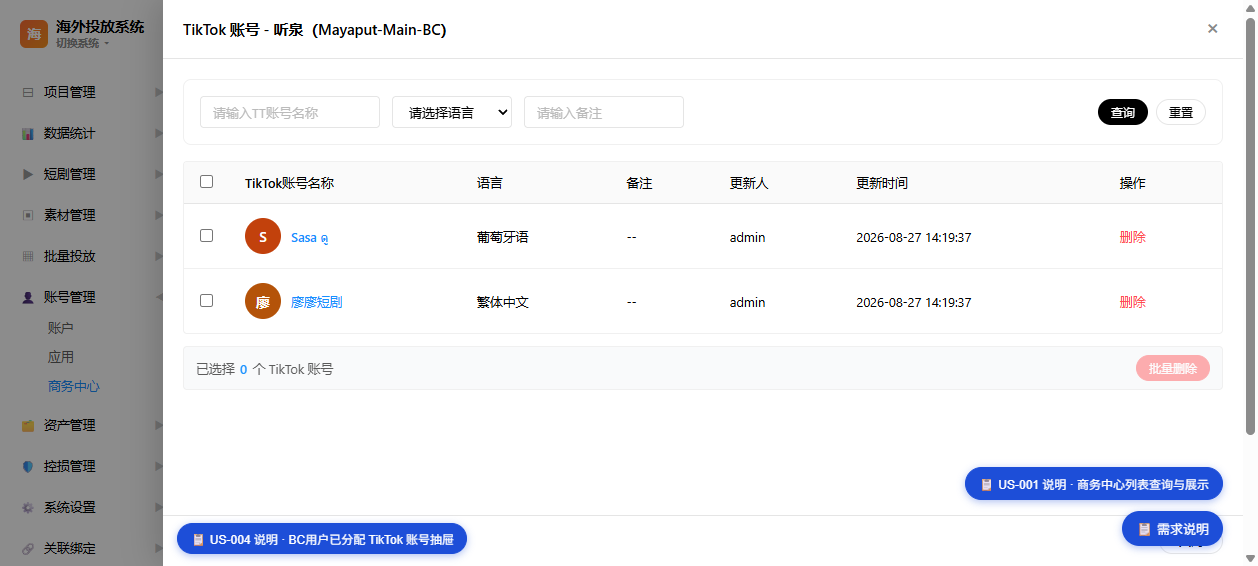
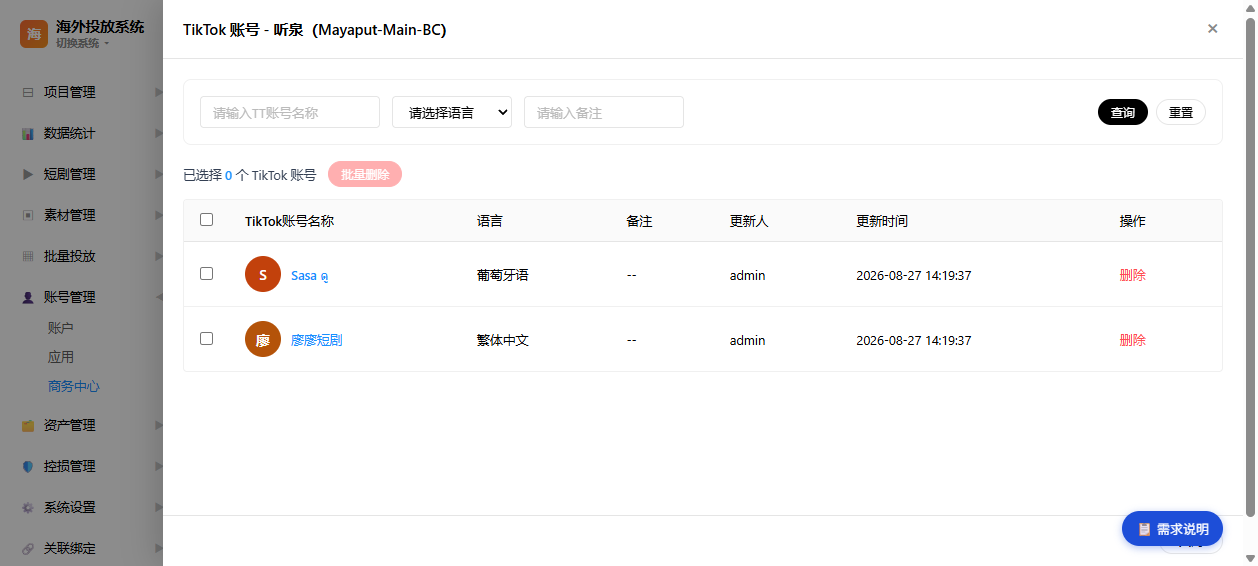
feat(overseas-bc): 批量删除工具条上移 + TikTok账号表「所属商务中心」仅显示当前所选BC
1、BC用户已分配 TikTok 账号抽屉：批量操作工具条移到表格上方
- HTML：.drawer-batch-toolbar 由表格下方移到筛选栏与表格之间，结构改为 .bc-user-toolbar > .bc-user-selected-wrap（已选择 X 个 + 批量删除按钮并排靠左），与 BC用户页签「已选择 X 个BC用户 + 分配TikTok」工具条视觉/交互一致
- CSS：删除原灰色卡片式样式（flex/space-between/背景/边框/内边距），仅保留 margin-bottom:12px；计数高亮复用 .bc-user-selected-info span
- 逻辑零改动：updateUserTtSelected / toggleUserTtAll / askBatchRemoveUserTtAuth / callUnassignUserTtBatch 全部不变

2、TikTok账号页签「所属商务中心」列只展示当前所选 BC
- collectBcTtRows 移除 otherBcs 聚合与 bcIds/bcNames/bcLabel 字段，仅保留 bcId + bcName（= 当前所选 BC 名称）
- renderBcTtList 移除多 BC 分支，统一渲染 <td>{bcName}</td>
- 删除随之失效的 CSS：.bc-bc-cell-shared / .bc-bc-tags / .bc-bc-tag / .bc-bc-cell-shared .bc-bc-tag
- 样例数据中 Bobo Flicks 同时挂在 1001/1002 保留（贴近真实场景），注释同步更新

3、PRD 同步
- US-004 / US-009：工具条位置由「表格下方」改为「表格上方」，按钮与计数并排靠左
- US-006：fields/source/flow/ac 移除「多 BC 标签并排 + 浅黄底高亮 + 悬浮查看全部 BC」描述，改为「取值恒为当前所选 BC 名称，不展开该账号在其他 BC 下的归属」

4、PRD 截图刷新
- us-004-user-tt.png（工具条已上移，含禁用态）、us-006-tt-tab.png（所属商务中心仅单个 BC 名）、us-009-batch-remove.png（上移后的工具条 + 精简确认弹框）
- 9 个 shot 引用全部 200

diff --git a/pages/overseas-bc.html b/pages/overseas-bc.html
@@ -367,6 +367,13 @@
                     </div>
                   </div>
                 </div>
+                <!-- 批量操作工具条：置于表格上方，与 BC用户页签「已选择 X 个BC用户 + 分配TikTok」保持一致 -->
+                <div class="bc-user-toolbar drawer-batch-toolbar">
+                  <div class="bc-user-selected-wrap">
+                    <span class="bc-user-selected-info">已选择 <span id="user-tt-selected-count">0</span> 个 TikTok 账号</span>
+                    <button type="button" class="btn btn-primary btn-sm" id="user-tt-batch-remove-btn" disabled style="background:var(--color-error, #d92d20);border-color:var(--color-error, #d92d20);" onclick="askBatchRemoveUserTtAuth()">批量删除</button>
+                  </div>
+                </div>
                 <div class="table-card" style="border-radius:4px;">
                   <div class="table-wrapper">
                     <table class="data-table">
@@ -384,10 +391,6 @@
                       <tbody id="user-tt-tbody"></tbody>
                     </table>
                   </div>
-                </div>
-                <div class="drawer-batch-toolbar">
-                  <span>已选择 <span id="user-tt-selected-count">0</span> 个 TikTok 账号</span>
-                  <button type="button" class="btn btn-primary btn-sm" id="user-tt-batch-remove-btn" disabled style="background:var(--color-error, #d92d20);border-color:var(--color-error, #d92d20);" onclick="askBatchRemoveUserTtAuth()">批量删除</button>
                 </div>
               </div>
               <div class="drawer-footer">
@@ -742,34 +745,6 @@
         margin-left: auto;
       }
 
-      /* TikTok 账号表 - 「所属商务中心」单元格：多 BC 共享时以独立标签展示 */
-      .bc-bc-cell-shared {
-        background: #fffbeb;
-      }
-      .bc-bc-tags {
-        display: inline-flex;
-        align-items: center;
-        gap: 6px;
-        flex-wrap: wrap;
-      }
-      .bc-bc-tag {
-        display: inline-flex;
-        align-items: center;
-        padding: 2px 8px;
-        border-radius: 10px;
-        font-size: 12px;
-        line-height: 18px;
-        white-space: nowrap;
-        background: #eef2ff;
-        color: #3730a3;
-        border: 1px solid #c7d2fe;
-      }
-      .bc-bc-cell-shared .bc-bc-tag {
-        background: #fef3c7;
-        color: #b45309;
-        border-color: #fde68a;
-      }
-
       /* 分配 TikTok 账号弹框需在BC用户列表抽屉之上显示（修正层级错乱） */
       #assign-tt-overlay { z-index: 1200; }
       #assign-tt-modal { z-index: 1201; }
@@ -837,23 +812,10 @@
         cursor: not-allowed;
       }
 
-      /* BC用户已分配 TikTok 账号抽屉内：批量操作工具条（已选数 + 批量删除按钮） */
+      /* BC用户已分配 TikTok 账号抽屉内：批量操作工具条（已选数 + 批量删除按钮）。
+         位于表格上方，布局与配色复用 .bc-user-toolbar / .bc-user-selected-wrap / .bc-user-selected-info */
       .drawer-batch-toolbar {
-        display: flex;
-        align-items: center;
-        justify-content: space-between;
-        margin-top: 12px;
-        padding: 8px 12px;
-        background: #f9fafb;
-        border: 1px solid var(--color-border-light, #eaecf0);
-        border-radius: 4px;
-        font-size: 13px;
-        color: var(--color-text-secondary, #667085);
-      }
-      .drawer-batch-toolbar #user-tt-selected-count {
-        color: var(--color-info, #1d4ed8);
-        font-weight: 600;
-        margin: 0 2px;
+        margin-bottom: 12px;
       }
       /* 未勾选任何账号时，批量删除按钮呈浅色禁用态，与可点击状态区分 */
       #user-tt-batch-remove-btn:disabled {
@@ -1538,7 +1500,7 @@
           { name: 'Sasa ดู', handle: 'sasa_dailyup', lang: '葡萄牙语', remark: '--', updater: 'admin', updateTime: '2026-08-27 14:19:37' },
           { name: '廖廖短剧', handle: 'liaoliaodrama_tw', lang: '繁体中文', remark: '--', updater: 'admin', updateTime: '2026-08-27 14:19:37' },
           { name: 'Titi Pendek', handle: 'titipendek_my', lang: '马来西亚语', remark: '--', updater: 'admin', updateTime: '2026-08-27 14:19:37' },
-          /* Bobo Flicks 同时挂在 BC 1001 / 1002，用于演示「同一 TikTok 账号属于多个商务中心」样式 */
+          /* Bobo Flicks 同时挂在 BC 1001 / 1002：同一账号可在不同 BC 下各自归属，页签内只展示当前所选 BC */
           { name: 'Bobo Flicks', handle: 'boboflicks_en', lang: '英语', remark: '多 BC 共享素材', updater: 'admin', updateTime: '2026-08-27 14:19:37' }
         ],
         '1002': [
@@ -1959,17 +1921,13 @@
         '</div>';
       }
 
-      /* 聚合所选商务中心下的 TikTok 账号（单选语义：仅当前所选 BC 的账号；
-         当账号同属多个 BC 时，Bobo Flicks 这类样例数据会展示多标签高亮，作为多 BC 共存说明） */
+      /* 聚合所选商务中心下的 TikTok 账号（单选语义：仅当前所选 BC 的账号）。
+         「所属商务中心」取值恒为当前所选 BC 名称，不再展开该账号同时命中的其他 BC */
       function collectBcTtRows() {
         var selected = getSelectedBcs();
         if (!selected.length) return [];
         var bc = selected[0];
-        var rows = (bcTtData[bc.id] || []).map(function (a) {
-          var otherBcs = bcListData
-            .filter(function (b) { return b.id !== bc.id; })
-            .filter(function (b) { return (bcTtData[b.id] || []).some(function (x) { return x.name === a.name; }); });
-          var allBcNames = [bc.name].concat(otherBcs.map(function (b) { return b.name; }));
+        return (bcTtData[bc.id] || []).map(function (a) {
           return {
             key: a.name || '',
             name: a.name,
@@ -1978,18 +1936,16 @@
             remark: a.remark,
             updater: a.updater,
             updateTime: a.updateTime,
-            bcIds: [bc.id].concat(otherBcs.map(function (b) { return b.id; })),
-            bcNames: allBcNames
+            bcId: bc.id,
+            bcName: bc.name
           };
         });
-        rows.forEach(function (r) { r.bcLabel = r.bcNames.join('、'); });
-        return rows;
       }
 
       function renderBcTtThead() {
         var tr = document.getElementById('bc-tt-thead-row');
         if (!tr) return;
-        /* 「所属商务中心」固定展示在「备注」后面；当账号同时属于多个 BC 时以独立标签并排展示 */
+        /* 「所属商务中心」固定展示在「备注」后面，取值恒为当前所选 BC 名称 */
         tr.innerHTML = '<th>TikTok账号名称</th>' +
           '<th style="width:100px;">语言</th>' +
           '<th>备注</th>' +
@@ -2030,18 +1986,11 @@
           return;
         }
         tbody.innerHTML = filtered.map(function (a) {
-          /* 多个商务中心时：单元格浅底 + 每个 BC 独立标签，直观体现「同一账号属于多个BC」 */
-          var multi = a.bcIds && a.bcIds.length > 1;
-          var bcCell = multi
-            ? '<td class="bc-bc-cell-shared"><span class="bc-bc-tags" title="' + a.bcLabel + '">' +
-                a.bcNames.map(function (n) { return '<span class="bc-bc-tag">' + n + '</span>'; }).join('') +
-              '</span></td>'
-            : '<td>' + a.bcLabel + '</td>';
           return '<tr>' +
             '<td>' + renderTtAccountCell(a.name, a.handle) + '</td>' +
             '<td>' + (a.lang || '') + '</td>' +
             '<td>' + (a.remark || '') + '</td>' +
-            bcCell +
+            '<td>' + (a.bcName || '') + '</td>' +
             '<td>' + (a.updater || '') + '</td>' +
             '<td>' + (a.updateTime || '') + '</td>' +
           '</tr>';
@@ -2511,7 +2460,7 @@
           shot: '../assets/prd/us-004-user-tt.png',
           desc: '作为投放运营，我想要查看某个BC用户已分配的 TikTok 账号明细，以便确认其资产权限。',
           filter: '筛选项与「资产管理 - TikTok账号」页面保持一致。TT账号名称（单行文本输入框，占位「请输入TT账号名称」）／语言（下拉选择，占位「请选择语言」，枚举与短剧管理页面的语言枚举一致）／备注（单行文本输入框，占位「请输入备注」）+「查询」/「重置」按钮；点击「查询」后按条件查询，点击「重置」清空全部条件并恢复全量列表。',
-          fields: '选择列（复选框，固定显示，表头支持全选/半选，勾选用于批量删除）／TikTok账号名称（头像 + 账号名称组合展示）／语言（文本，账号语言）／备注（文本，账号备注，可为空）／更新人（文本，最近操作人）／更新时间（文本，格式 yyyy-MM-dd HH:mm）／操作（按钮：删除，点击后二次确认并调用「撤销用户对资产的权限」接口取消授权）；仅展示该BC用户已分配的账号。表格下方工具条显示「已选择 X 个 TikTok 账号」+「批量删除」按钮（红色，勾选为空时置灰）。',
+          fields: '选择列（复选框，固定显示，表头支持全选/半选，勾选用于批量删除）／TikTok账号名称（头像 + 账号名称组合展示）／语言（文本，账号语言）／备注（文本，账号备注，可为空）／更新人（文本，最近操作人）／更新时间（文本，格式 yyyy-MM-dd HH:mm）／操作（按钮：删除，点击后二次确认并调用「撤销用户对资产的权限」接口取消授权）；仅展示该BC用户已分配的账号。表格上方工具条显示「已选择 X 个 TikTok 账号」+「批量删除」按钮（红色，勾选为空时置灰）。',
           source: '抽屉内账号列表 ← 该BC用户与资产的分配关系；可调用「获取资产列表」（<a href="https://business-api.tiktok.com/portal/docs/get-assets/v1.3" target="_blank">get-assets 官方文档</a>）后按BC用户名过滤出已分配账号。单条删除与批量删除均调用「撤销用户对资产的权限」（<a href="https://business-api.tiktok.com/portal/docs/unassign-an-asset/v1.3" target="_blank">unassign-an-asset 官方文档</a>）。',
           flow: 'BC用户列表行内点击「TikTok 账号」数量 → 携带 BC ID + BC用户名打开宽抽屉 → 调用「获取资产列表」→ 仅展示该BC用户已被分配的 TikTok 账号 → 渲染账号明细（含选择列、操作列「删除」）；点击「删除」→ 二次确认「是否取消授权该BC用户该 TikTok 账号？」→ 用户确认后调用「撤销用户对资产的权限」→ 成功从列表移除该账号并同步BC用户账号数；抽屉叠加在BC用户抽屉之上，关闭后回到BC用户列表。',
           ac: [
@@ -2521,7 +2470,7 @@
             '点击单条「删除」弹出二次确认「是否取消授权该BC用户该 TikTok 账号？」，用户确认后调用「撤销用户对资产的权限」接口取消授权，成功后移除该账号并刷新列表；点击「取消」则不执行',
             '支持按账号名称、语言、备注组合查询（点击「查询」后执行，「重置」恢复全量）',
             '抽屉叠加在BC用户抽屉之上，关闭后回到BC用户列表',
-            '表格下方工具条：实时显示「已选择 X 个 TikTok 账号」与红色「批量删除」按钮；勾选为空时按钮置灰、不可点击；勾选项受搜索过滤影响（被过滤掉的勾选保留）'
+            '表格上方工具条：实时显示「已选择 X 个 TikTok 账号」与红色「批量删除」按钮；勾选为空时按钮置灰、不可点击；勾选项受搜索过滤影响（被过滤掉的勾选保留）'
           ]
         },
         {
@@ -2546,14 +2495,13 @@
           shot: '../assets/prd/us-006-tt-tab.png',
           desc: '作为投放运营，我想要查看当前所选 BC 下的 TikTok 账号资产明细，以便了解资产情况。',
           filter: '筛选项与「资产管理 - TikTok账号」页面保持一致。TT账号名称（单行文本输入框，占位「请输入TT账号名称」）／语言（下拉选择，占位「请选择语言」，枚举与短剧管理页面的语言枚举一致）／备注（单行文本输入框，占位「请输入备注」）+「查询」/「重置」按钮 +「刷新」按钮 +「添加 TikTok 账号」按钮；点击「查询」后按条件查询，点击「重置」清空全部条件并恢复全量列表，点击「刷新」调用接口重新拉取当前所选 BC 下的 TikTok 账号并刷新表格与时间戳。',
-          fields: 'TikTok账号名称（头像 + 账号名称组合展示）／语言（文本，账号语言）／备注（文本，账号备注，可为空）／所属商务中心（文本，固定展示在「备注」之后；当账号同时属于多个 BC 时，每个 BC 以独立标签并排展示，单元格浅黄底高亮，示例：Bobo Flicks 同时属于 Mayaput-Main-BC 与 ViviShort-BC）／更新人（文本，最近操作人）／更新时间（文本，格式 yyyy-MM-dd HH:mm）；展示当前所选 BC 下全部 TikTok 账号资产，无操作列；工具条右侧显示「上次更新 HH:MM:SS」时间戳，与 BC用户页签的时间戳相互独立。',
-          source: '页签表格 ← 接口「获取资产列表」（<a href="https://business-api.tiktok.com/portal/docs/get-assets/v1.3" target="_blank">get-assets 官方文档</a>），入参为左侧当前所选 BC ID；同一账号命中多个 BC 时「所属商务中心」展示全部命中 BC。',
-          flow: '左侧切换 BC 后右侧「TikTok账号」页签直接展示该 BC 下的 TikTok 账号→「所属商务中心」列固定展示在「备注」之后，列出该账号归属的全部 BC（多个 BC 以标签并排 + 单元格高亮）；筛选项在本地过滤可见行；点击「刷新」重新拉取并独立刷新本页签的时间戳；点击「添加 TikTok 账号」在当前所选 BC 上打开添加弹框，商务中心字段自动带入并锁定。',
+          fields: 'TikTok账号名称（头像 + 账号名称组合展示）／语言（文本，账号语言）／备注（文本，账号备注，可为空）／所属商务中心（文本，固定展示在「备注」之后，取值恒为当前所选 BC 名称）／更新人（文本，最近操作人）／更新时间（文本，格式 yyyy-MM-dd HH:mm）；展示当前所选 BC 下全部 TikTok 账号资产，无操作列；工具条右侧显示「上次更新 HH:MM:SS」时间戳，与 BC用户页签的时间戳相互独立。',
+          source: '页签表格 ← 接口「获取资产列表」（<a href="https://business-api.tiktok.com/portal/docs/get-assets/v1.3" target="_blank">get-assets 官方文档</a>），入参为左侧当前所选 BC ID。',
+          flow: '左侧切换 BC 后右侧「TikTok账号」页签直接展示该 BC 下的 TikTok 账号→「所属商务中心」列固定展示在「备注」之后，取值恒为当前所选 BC 名称；筛选项在本地过滤可见行；点击「刷新」重新拉取并独立刷新本页签的时间戳；点击「添加 TikTok 账号」在当前所选 BC 上打开添加弹框，商务中心字段自动带入并锁定。',
           ac: [
             '右侧提供「TikTok账号」页签，点击切换进入，标题：TikTok账号',
             '支持按账号名称、语言、备注组合查询（点击「查询」后执行，「重置」恢复全量），无结果显示空态',
-            '「所属商务中心」列固定展示在「备注」列之后',
-            '同一 TikTok 账号属于多个 BC 时，该单元格按 BC 逐个渲染为独立标签并高亮底色，鼠标悬浮显示完整 BC 列表',
+            '「所属商务中心」列固定展示在「备注」列之后，取值恒为当前所选左侧 BC 名称，不展开该账号在其他 BC 下的归属',
             '顶部「刷新」按钮：点击后置灰为「刷新中…」，调用接口重新拉取当前所选 BC 下的 TikTok 账号，结束后恢复并独立更新本页签的时间戳',
             '工具条右侧显示「上次更新 HH:MM:SS」；页面初始化时即写入一次，刷新按钮触发后再写入一次；该时间戳与 BC用户页签互不干扰',
             '顶部「添加 TikTok 账号」按钮：点击后直接打开弹框并锁定当前所选 BC',
@@ -2598,7 +2546,7 @@
           shot: '../assets/prd/us-009-batch-remove.png',
           desc: '作为投放运营，我想要在抽屉内一次性勾选多个 TikTok 账号并批量取消授权，以便快速收回资产权限。',
           filter: '无独立筛选条件，依赖 US-004 抽屉自身的名称/语言/备注筛选项；当前可见行（受筛选过滤后的行）支持表头全选与逐行勾选。',
-          fields: '表格首列复选框（单条勾选，可保留已过滤掉的勾选项）／表头复选框（全选/取消全选，半选态表示部分可见行被选中）／表格下方工具条：左侧「已选择 X 个 TikTok 账号」+ 右侧红色「批量删除」按钮（勾选为空时置灰）；二次确认弹框仅问「是否确认取消授权？」+ 明细区显示「BC用户：{user}　共 N 个 TikTok 账号」，不再展开账号名预览。',
+          fields: '表格首列复选框（单条勾选，可保留已过滤掉的勾选项）／表头复选框（全选/取消全选，半选态表示部分可见行被选中）／表格上方工具条：「已选择 X 个 TikTok 账号」+ 红色「批量删除」按钮并排位于表格左上方（勾选为空时置灰，布局与 BC用户页签的「已选择 + 分配TikTok」工具条一致）；二次确认弹框仅问「是否确认取消授权？」+ 明细区显示「BC用户：{user}　共 N 个 TikTok 账号」，不再展开账号名预览。',
           source: '批量删除调用「撤销用户对资产的权限」（<a href="https://business-api.tiktok.com/portal/docs/unassign-an-asset/v1.3" target="_blank">unassign-an-asset 官方文档</a>），按勾选账号名串行执行；执行完成后同步刷新抽屉列表与底层「BC用户」页签的账号数量。',
           flow: '打开抽屉（US-004）→ 通过名称/语言/备注筛选缩小目标范围 → 在表格首列勾选多个账号（可表头全选当前可见行）→ 工具条实时显示「已选择 X 个」→ 点击红色「批量删除」→ 弹出二次确认「取消授权」弹框（问句「是否确认取消授权？」+ 明细仅显示 BC用户与总数）→ 用户点「确定」→ 串行调用「撤销用户对资产的权限」逐条撤销 → 全部完成后一次性刷新抽屉与 BC用户列表 → 提示「已批量取消授权 N 个 TikTok 账号」。',
           ac: [
